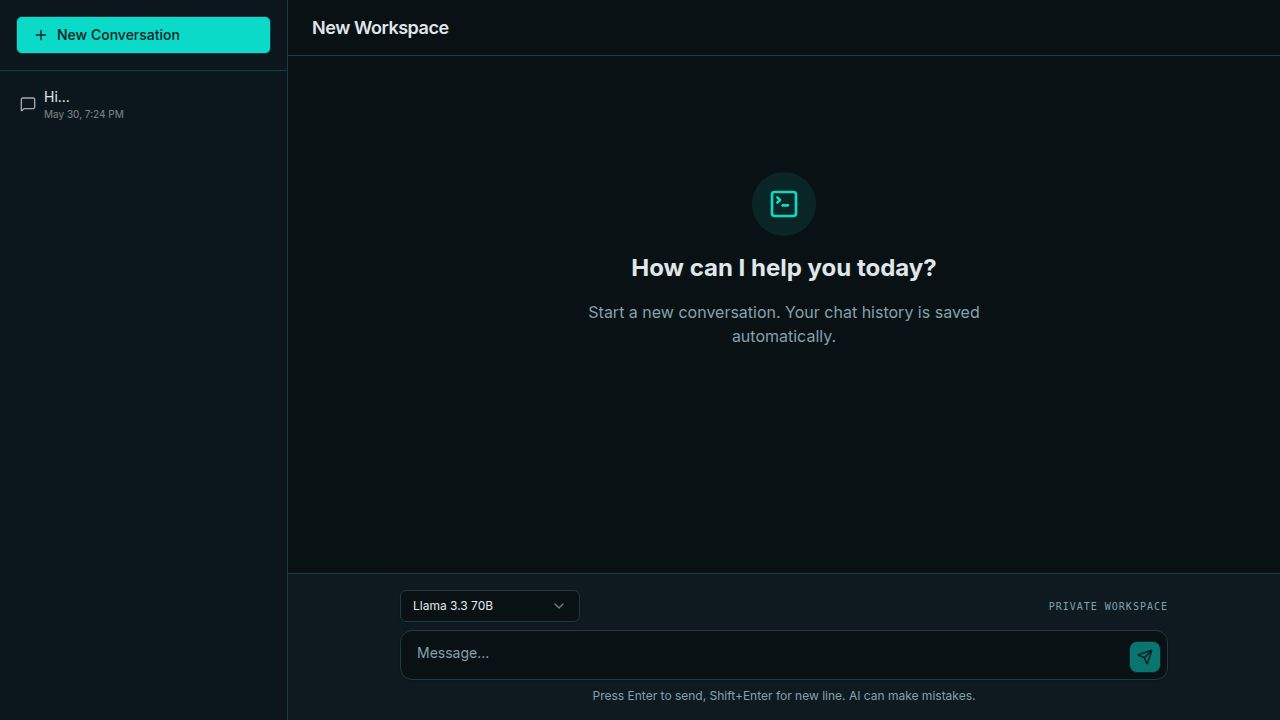
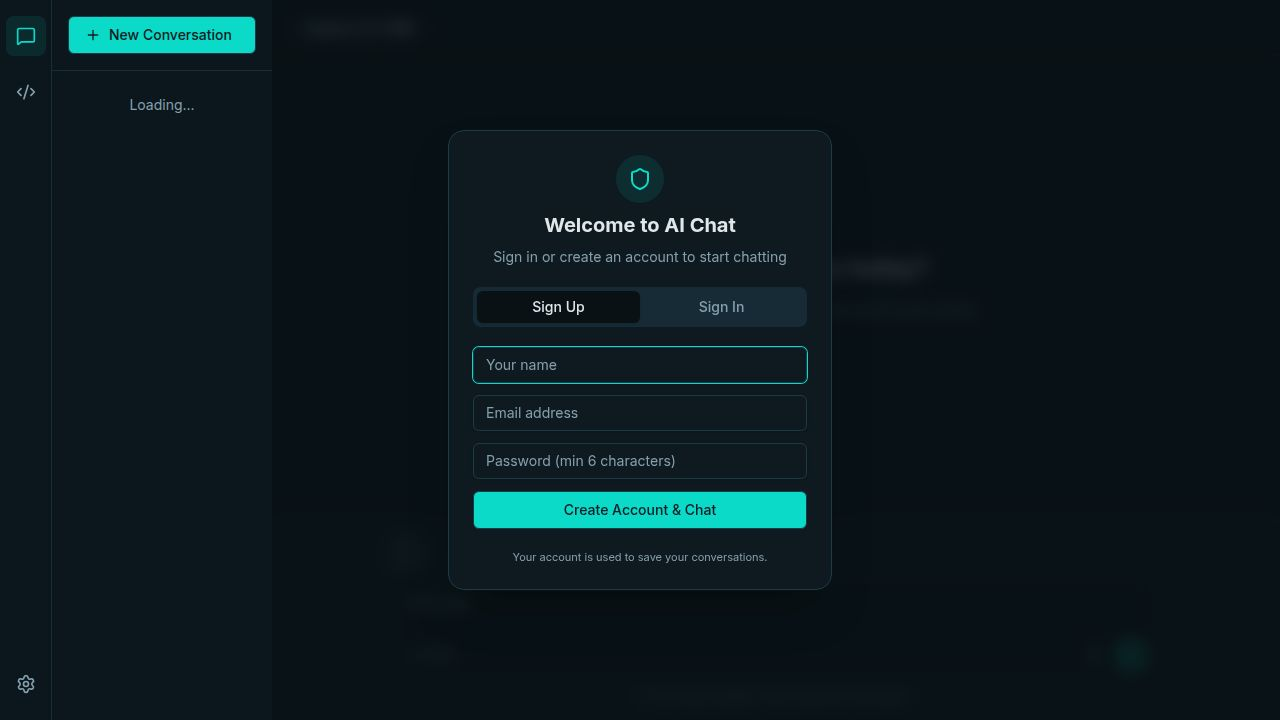
Add visual indicators for model status and performance in the chat interface
Introduce a new `ModelStatusRow` component to display colored dots indicating model status (working, blocked, rate-limited, or untested). The frontend now fetches and periodically updates model statuses from a new API endpoint. The backend API server manages a cache for model statuses with defined time-to-live values for each status, and updates statuses based on successful or failed model responses.

Replit-Commit-Author: Agent
Replit-Commit-Session-Id: dd15546a-5bbd-4f45-8adb-392fcbf0f997
Replit-Commit-Checkpoint-Type: full_checkpoint
Replit-Commit-Event-Id: c07dcd8a-492a-4c62-a34f-4f1f3483c004
Replit-Commit-Screenshot-Url: https://storage.googleapis.com/screenshot-production-us-central1/0d0d862a-55f7-47fc-bc3a-e67705af0769/dd15546a-5bbd-4f45-8adb-392fcbf0f997/RYfb5Mk
Replit-Helium-Checkpoint-Created: true

diff --git a/artifacts/ai-chat/src/components/chat-pane.tsx b/artifacts/ai-chat/src/components/chat-pane.tsx
@@ -156,6 +156,28 @@ function CopyCodeBtn({ code }: { code: string }) {
   );
 }
 
+function ModelStatusRow({ name, status }: { name: string; status?: "ok" | "blocked" | "rate_limited" }) {
+  const dot =
+    status === "ok"
+      ? "bg-green-500"
+      : status === "blocked"
+        ? "bg-red-500"
+        : status === "rate_limited"
+          ? "bg-yellow-400"
+          : "bg-muted-foreground/30";
+  const title =
+    status === "ok" ? "Working" :
+    status === "blocked" ? "Blocked by proxy" :
+    status === "rate_limited" ? "Rate limited (temporary)" :
+    "Not yet tested";
+  return (
+    <span className="flex items-center gap-2">
+      <span className={`w-2 h-2 rounded-full shrink-0 ${dot}`} title={title} />
+      {name}
+    </span>
+  );
+}
+
 function encodeBase64(str: string): string {
   const bytes = new TextEncoder().encode(str);
   let binary = "";
@@ -240,6 +262,7 @@ export function ChatPane({ conversationId, prefilledInput, autoSend, repoContext
 
   const [sendError, setSendError] = useState<string | null>(null);
   const [providerStatus, setProviderStatus] = useState<Record<string, boolean>>({});
+  const [modelStatuses, setModelStatuses] = useState<Record<string, "ok" | "blocked" | "rate_limited">>({});
 
   const [isListening, setIsListening] = useState(false);
   const recognitionRef = useRef<any>(null);
@@ -270,6 +293,16 @@ export function ChatPane({ conversationId, prefilledInput, autoSend, repoContext
       .then((r) => r.ok ? r.json() : {})
       .then((data: Record<string, boolean>) => setProviderStatus(data))
       .catch(() => {});
+
+    const fetchModelStatuses = () =>
+      fetch("/api/openrouter/models/status")
+        .then((r) => r.ok ? r.json() : {})
+        .then((data: Record<string, "ok" | "blocked" | "rate_limited">) => setModelStatuses(data))
+        .catch(() => {});
+
+    fetchModelStatuses();
+    const interval = setInterval(fetchModelStatuses, 60_000);
+    return () => clearInterval(interval);
   }, []);
 
   const [activeRepo, setActiveRepo] = useState<RepoContext | null>(() => {
@@ -710,35 +743,45 @@ When the user asks about this project, answer based on the repository context ab
               <SelectGroup>
                 <SelectLabel className="text-[10px] uppercase tracking-wider text-muted-foreground px-2 py-1">Google Gemini</SelectLabel>
                 {GEMINI_MODELS.map((m) => (
-                  <SelectItem key={m.id} value={m.id}>{m.name}</SelectItem>
+                  <SelectItem key={m.id} value={m.id}>
+                    <ModelStatusRow name={m.name} status={modelStatuses[m.id]} />
+                  </SelectItem>
                 ))}
               </SelectGroup>
               <SelectSeparator />
               <SelectGroup>
-                <SelectLabel className="text-[10px] uppercase tracking-wider text-muted-foreground px-2 py-1">OpenRouter (19 Free Models)</SelectLabel>
+                <SelectLabel className="text-[10px] uppercase tracking-wider text-muted-foreground px-2 py-1">OpenRouter (Free Models)</SelectLabel>
                 {OPENROUTER_MODELS.map((m) => (
-                  <SelectItem key={m.id} value={m.id}>{m.name}</SelectItem>
+                  <SelectItem key={m.id} value={m.id}>
+                    <ModelStatusRow name={m.name} status={modelStatuses[m.id]} />
+                  </SelectItem>
                 ))}
               </SelectGroup>
               <SelectSeparator />
               <SelectGroup>
                 <SelectLabel className="text-[10px] uppercase tracking-wider text-muted-foreground px-2 py-1">Anthropic (Claude)</SelectLabel>
                 {ANTHROPIC_MODELS.map((m) => (
-                  <SelectItem key={m.id} value={m.id}>{m.name}</SelectItem>
+                  <SelectItem key={m.id} value={m.id}>
+                    <ModelStatusRow name={m.name} status={modelStatuses[m.id]} />
+                  </SelectItem>
                 ))}
               </SelectGroup>
               <SelectSeparator />
               <SelectGroup>
                 <SelectLabel className="text-[10px] uppercase tracking-wider text-muted-foreground px-2 py-1">GitHub Models</SelectLabel>
                 {githubModels.map((m) => (
-                  <SelectItem key={m.id} value={m.id}>{m.name}</SelectItem>
+                  <SelectItem key={m.id} value={m.id}>
+                    <ModelStatusRow name={m.name} status={modelStatuses[m.id]} />
+                  </SelectItem>
                 ))}
               </SelectGroup>
               <SelectSeparator />
               <SelectGroup>
                 <SelectLabel className="text-[10px] uppercase tracking-wider text-muted-foreground px-2 py-1">GitHub Copilot</SelectLabel>
                 {COPILOT_MODELS.map((m) => (
-                  <SelectItem key={m.id} value={m.id}>{m.name}</SelectItem>
+                  <SelectItem key={m.id} value={m.id}>
+                    <ModelStatusRow name={m.name} status={modelStatuses[m.id]} />
+                  </SelectItem>
                 ))}
               </SelectGroup>
               {ollamaModels.length > 0 && (
@@ -747,7 +790,9 @@ When the user asks about this project, answer based on the repository context ab
                   <SelectGroup>
                     <SelectLabel className="text-[10px] uppercase tracking-wider text-muted-foreground px-2 py-1">Local (Ollama)</SelectLabel>
                     {ollamaModels.map((m) => (
-                      <SelectItem key={m.id} value={m.id}>{m.name}</SelectItem>
+                      <SelectItem key={m.id} value={m.id}>
+                        <ModelStatusRow name={m.name} status={modelStatuses[m.id]} />
+                      </SelectItem>
                     ))}
                   </SelectGroup>
                 </>

diff --git a/artifacts/api-server/src/routes/openrouter/index.ts b/artifacts/api-server/src/routes/openrouter/index.ts
@@ -47,6 +47,31 @@ async function requireAuth(req: any, res: any): Promise<{ userId: number } | nul
   return { userId: user.id };
 }
 
+// ── Model status cache ──────────────────────────────────────────────────────
+type ModelStatus = "ok" | "blocked" | "rate_limited";
+interface StatusEntry { status: ModelStatus; updatedAt: number }
+const modelStatusCache = new Map<string, StatusEntry>();
+const STATUS_TTL: Record<ModelStatus, number> = {
+  ok: 10 * 60_000,         // 10 min — working models stay green
+  blocked: 30 * 60_000,    // 30 min — guardrail blocks are semi-permanent
+  rate_limited: 2 * 60_000, // 2 min  — rate limits are transient
+};
+
+function setModelStatus(key: string, status: ModelStatus) {
+  modelStatusCache.set(key, { status, updatedAt: Date.now() });
+}
+
+function getModelStatuses(): Record<string, ModelStatus> {
+  const now = Date.now();
+  const result: Record<string, ModelStatus> = {};
+  for (const [key, entry] of modelStatusCache.entries()) {
+    if (now - entry.updatedAt < STATUS_TTL[entry.status]) {
+      result[key] = entry.status;
+    }
+  }
+  return result;
+}
+
 // All free OpenRouter models verified 2026-06-01 (excludes uncensored models blocked by proxy)
 const MODELS: Record<string, string> = {
   // Meta Llama
@@ -78,7 +103,17 @@ const MODELS: Record<string, string> = {
   "glm": "z-ai/glm-4.5-air:free",
 };
 
+// Reverse map: full OpenRouter model ID → short frontend key
+const MODEL_KEYS: Record<string, string> = Object.fromEntries(
+  Object.entries(MODELS).map(([k, v]) => [v, k])
+);
+
 const DEFAULT_MODEL = "meta-llama/llama-3.3-70b-instruct:free";
+
+// ── GET /openrouter/models/status — returns live status of all tracked models ──
+router.get("/openrouter/models/status", (_req, res) => {
+  res.json(getModelStatuses());
+});
 
 const BASE_SYSTEM_PROMPT = `You are an AI coding assistant built into a full-featured AI chat application. Here is everything you need to know about the app and your role:
 
@@ -695,6 +730,7 @@ router.post("/openrouter/conversations/:id/messages", async (req, res) => {
       }
 
       let fullResponse = "";
+      const geminiStatusKey = `gemini:${modelName}`;
       try {
         const stream = await geminiAI.models.generateContentStream({
           model: modelName,
@@ -708,7 +744,9 @@ router.post("/openrouter/conversations/:id/messages", async (req, res) => {
             res.write(`data: ${JSON.stringify({ content: text })}\n\n`);
           }
         }
+        setModelStatus(geminiStatusKey, "ok");
       } catch (err: any) {
+        setModelStatus(geminiStatusKey, "blocked");
         const msg = `⚠️ Gemini error: ${err?.message ?? String(err)}`;
         res.write(`data: ${JSON.stringify({ content: msg })}\n\n`);
         await db.insert(messagesTable).values({ conversationId, role: "assistant", content: msg }).catch(() => {});
@@ -765,6 +803,7 @@ router.post("/openrouter/conversations/:id/messages", async (req, res) => {
         });
         stream = attempt;
         usedModel = tryModel;
+        setModelStatus(MODEL_KEYS[tryModel] ?? tryModel, "ok");
         break;
       } catch (err: any) {
         const status = err?.status ?? err?.statusCode ?? 0;
@@ -772,6 +811,7 @@ router.post("/openrouter/conversations/:id/messages", async (req, res) => {
         const isGuardrail = status === 404 && errMsg.toLowerCase().includes("guardrail");
         if (status === 429 || isGuardrail) {
           const reason = isGuardrail ? "blocked by proxy guardrails" : "rate-limited (429)";
+          setModelStatus(MODEL_KEYS[tryModel] ?? tryModel, isGuardrail ? "blocked" : "rate_limited");
           console.warn(`[openrouter] ${tryModel} ${reason}, trying fallback...`);
           continue;
         }